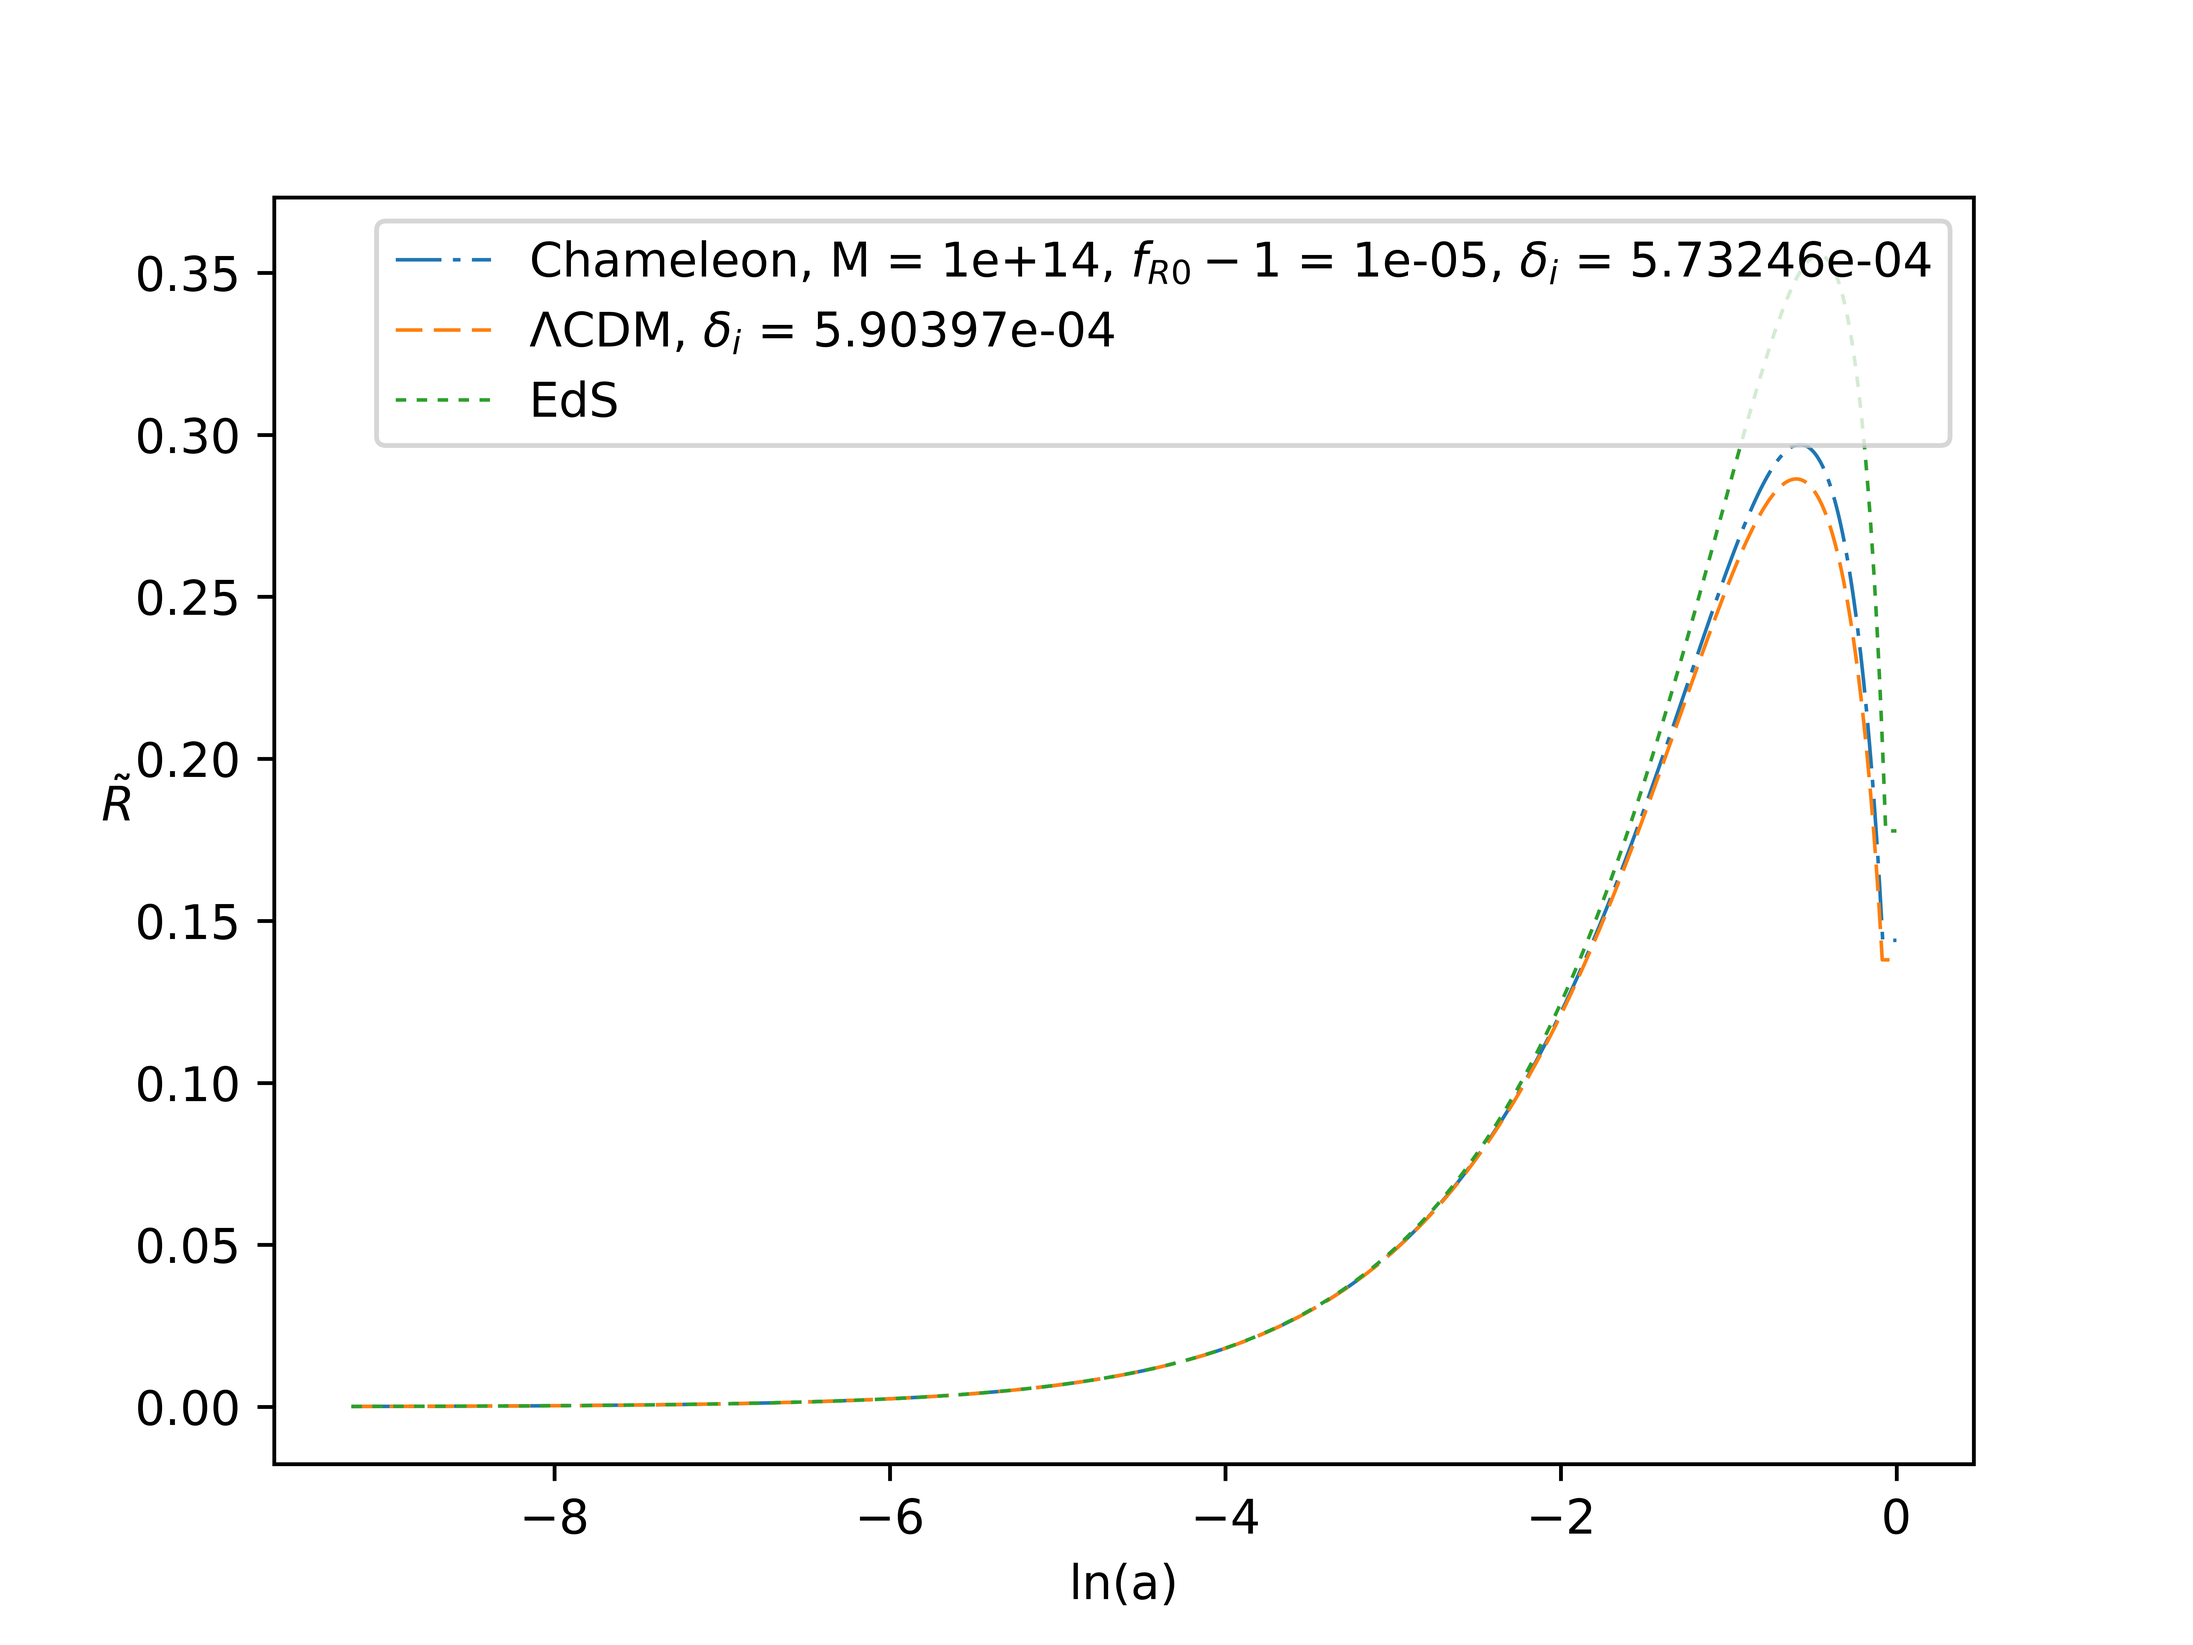
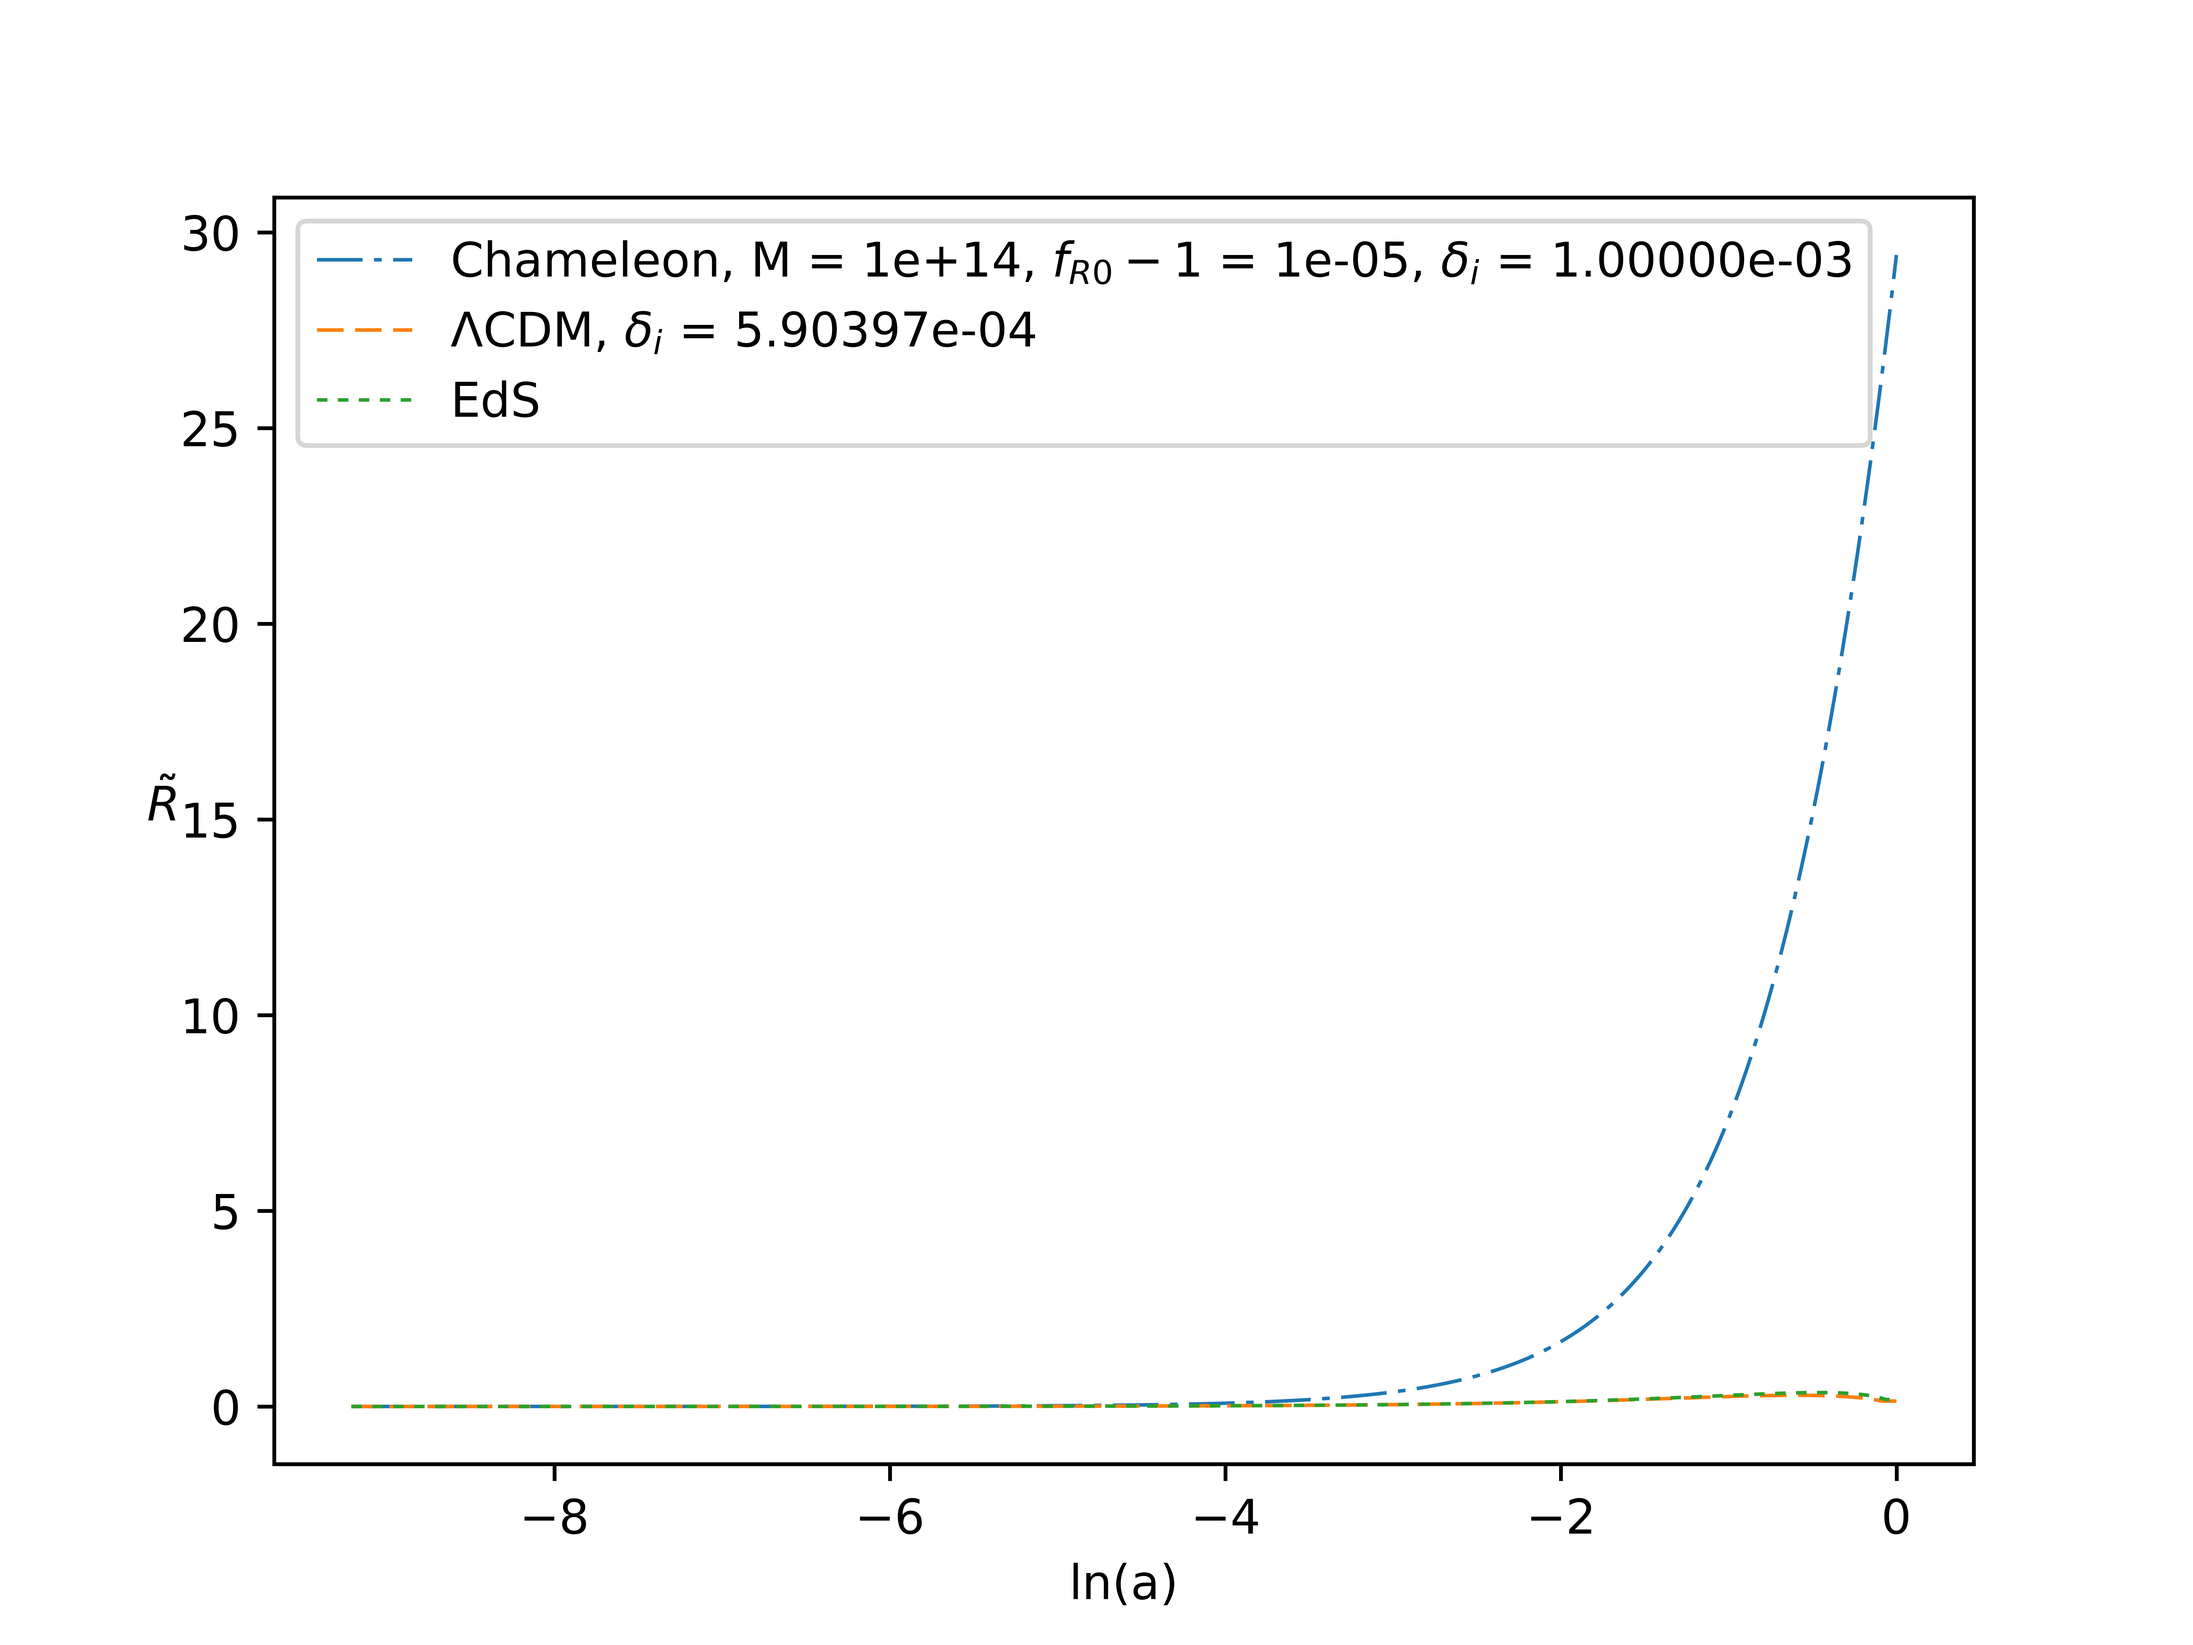
Minor changes

diff --git a/Kode/betternewvir.py b/Kode/betternewvir.py
@@ -16,11 +16,11 @@ Msun = 2e30*5.61e26
 GtimeM_sun = G*Msun
 """
 #in natural (Planck) units:
-H_0 = 3.44e-35										#eV 
+H_0 = 9.369e-32										#eV 
 G = 1.0												#1
 rho_c0 = 3.*H_0**2/(8.*np.pi*G)
-Msun = 5.291e12 #2.357e14							#eV-1
-M_pl = 1/np.sqrt(8*np.pi)
+Msun = 1.989e30*5.977e-22 #2.357e14							#eV-1
+M_pl = 2.176e-8*5.977e-22 #1/np.sqrt(8*np.pi)
 GtimeM_sun = G*Msun
 
 """
@@ -276,8 +276,10 @@ def Echamnorad( Omega_m0, Lambda, a, gamma, beta,  ):
 
 def Phi_N( r, M, Omega_m0, delta_i ):
 	#assert r < 0, "Unphysical radius in Phi_N for %.2e" % delta_i
-	Phi_N = ( (GtimeM_sun*M*H_0)**(2./3.)*(Omega_m0*(1 + delta_i)/2.)**(1./3.)/r )
+	#Phi_N = ( (GtimeM_sun*M*H_0)**(2./3.)*(Omega_m0*(1 + delta_i)/2.)**(1./3.)/r )
 	#Phi_N = (M/(np.sqrt(3)*np.pi))**(2./3.)*(2*rho_c0*Omega_m0*(1 + delta_i))**(1./3.)/(M_pl**2*r)
+	#Phi_N = ( 2*M*np.sqrt(Omega_m0*(1 + delta_i))/H_0**2 )**(2./3.)*rho_c0/(6*M_pl**2*r)
+	Phi_N = (M**2*H_0**2*Omega_m0*(1 + delta_i)/2)**(1./3.)/r
 	return Phi_N
 
 
@@ -294,14 +296,14 @@ def gammaHuSawicki1( Omega_m0, Lambda, delta_i, beta, n, M, f_R0, delta_rho, r, 
 	if not isinstance(a, float):
 		for i in range(len(a)):
 			assert np.isnan(r), "r is NaN"
-			if ( beta**2 <= 0 or Phi[i] < eps or (delta[i] - Omega_m0/a**3) < 0 ):
+			if ( beta**2 <= 0 ): #or Phi[i] < eps or (delta[i] - Omega_m0/a**3) < 0 ):
 				assert (delta - Omega_m0/a**3 < 0), "Delta_rho is probably NaN"
 				deltRoverR = 0
 			else:
 				deltRoverR = abs(1-f_R0)/(12*beta**2*Phi[i])*( (Omega_m0 + 4*Lambda)/(delta[i] - Omega_m0/a[i]**3) )**(n + 1)
 
 	else:
-		if ( beta**2 <= 0 or Phi < eps or delta - Omega_m0/a**3 < 0 ):
+		if ( beta**2 <= 0 ): #or Phi < eps or delta - Omega_m0/a**3 < 0 ):
 			deltRoverR = 0
 		elif r < 0:
 			deltRoverR = 0
@@ -312,7 +314,7 @@ def gammaHuSawicki1( Omega_m0, Lambda, delta_i, beta, n, M, f_R0, delta_rho, r, 
 	#values.write("{:1.3e}        {:2.3e}         {:2.3e}         {:2.3e} \n".format(float(Phi_N), float(delta), float(deltRoverR), float(delta_i)))
 
 
-	return 1 + 2*beta**2*( 1 - deltRoverR**3 )
+	return 1 + 2*beta**2*( deltRoverR**3 )
 	#return 1 - 2*beta**2*( 1- abs(1 - f_R0)*r_iovera_i*r/(12*beta*G*M)*( (Omega_m0 + 4*Lambda)/(delta_rho(Omega_m0, delta_i, r, r_iovera_i) - Omega_m0/a**3) )**(n/(n + 1)) )
 
 
@@ -386,7 +388,7 @@ f_R0 = 1.00001
 n = 0.02
 Omega_m0 = 0.25
 Lambda = 0.75
-
+"""
 fileLCDM = open("Numbers\LCDMviracc.txt", "w")
 
 fileEdS = open("Numbers\EdSvirracc.txt", "w")
@@ -414,7 +416,7 @@ mpl.legend()
 mpl.savefig("Figures\Evolution.png", dpi = 1000)
 mpl.clf()
 
-"""
+
 mpl.plot(y, T1, "c-", linewidth = 0.75, label = r"$T_{\Lambda CDM}$")
 mpl.plot(y, -W1, "c--", linewidth = 0.75, label = r"$W_{\Lambda CDM}$")
 
@@ -453,7 +455,7 @@ y = np.linspace(y0, -1e-15, N)
 r0 = np.exp(y0)
 drdx0 = np.exp(y0)
 
-
+"""
 masses = [ 1e10, 1e12, 1e14, 1e16, 1e20]
 #want to loop over masses, but not within the rootfinding. I want a figure showing how Delta=rho_p/rho_b varies with the mass and curvature
 print "On loop over M"
@@ -474,7 +476,7 @@ mpl.clf()
 placement("Numbers\Massloop.txt")
 
 
-"""
+
 print "Loop over f_R0"
 M = 1e14
 f_R0_list = np.array([1e-8, 1e-7, 1e-6, 1e-5, 1e-4, 1e-3]) + 1
@@ -508,17 +510,28 @@ mpl.legend()
 mpl.savefig("Figures\Loop_n.pdf")
 mpl.clf()
 
+"""
+d_cham = 5.73246e-4
 file = open("Numbers\Random.txt", "w")
 rad = odeint(r, [r0, drdx0], y, args = ( chameleonacc, Omega_m0, Lambda, d_cham, Echamnorad, gammaHuSawicki1, beta, M, f_R0, d_rho, n) )
 rvir, T, W = vircheck( rad, y, Omega_m0, Lambda, d_cham, chameleonacc, Echamnorad, gammaHuSawicki1, beta, M, f_R0, d_rho, n, file )
 file.close
 a = np.exp(y)
+mpl.plot(a, rvir, linewidth = 0.75)
+mpl.ylabel(r"$\tilde{R}$")
+mpl.xlabel("a")
+mpl.xscale("log")
+mpl.show()
+
+
+
 geff = np.zeros(len(a))
 for i in range(len(a)):
-	geff[i] = gammaHuSawicki1(Omega_m0, Lambda, d_LCDM, beta, n, M, f_R0, d_rho, rvir[i], a[i], True) - 1
+	geff[i] = gammaHuSawicki1(Omega_m0, Lambda, d_cham, beta, n, M, f_R0, d_rho, rvir[i], a[i], True) - 1
 values.close()
 mpl.plot(a, geff, "-.", linewidth = 0.75)
 mpl.ylabel(r"$\gamma - 1$")
+mpl.xscale("log")
 mpl.xlabel("a")
 mpl.show()
 
@@ -526,6 +539,7 @@ Delta = d_rho( Omega_m0, Lambda, d_cham, M, rvir, beta, n, f_R0 )
 
 mpl.plot(a, Delta, "-.", linewidth = 0.75)
 mpl.ylabel(r"$\Delta_{\rho}$")
+mpl.xscale("log")
 mpl.xlabel("a")
 mpl.show()
 
@@ -533,6 +547,7 @@ phi = Phi_N( rvir, M, Omega_m0, d_cham )
 
 mpl.plot(a, phi, "-.", linewidth = 0.75)
 mpl.ylabel(r"$\Phi_N$")
+mpl.xscale("log")
 mpl.xlabel("a")
 mpl.show()
 print type(Delta), type(phi), len(a), len(Delta), len(phi)
@@ -546,4 +561,3 @@ controll( LCDMacc, chameleonacc, ELCDMnorad, Echamnorad, gammaHuSawicki1, 1/np.s
 
 mpl.legend()
 mpl.show()
-"""
